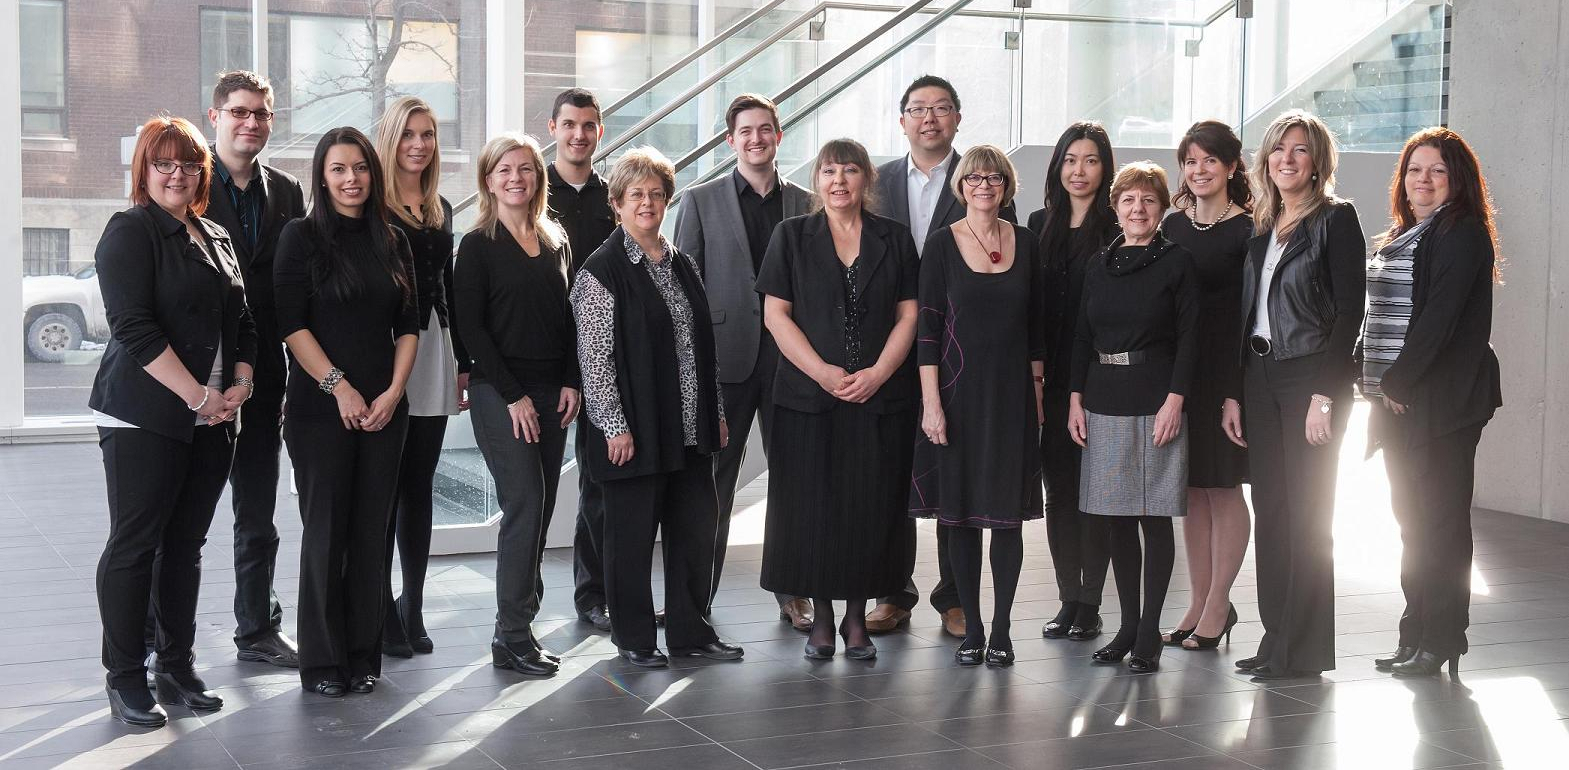
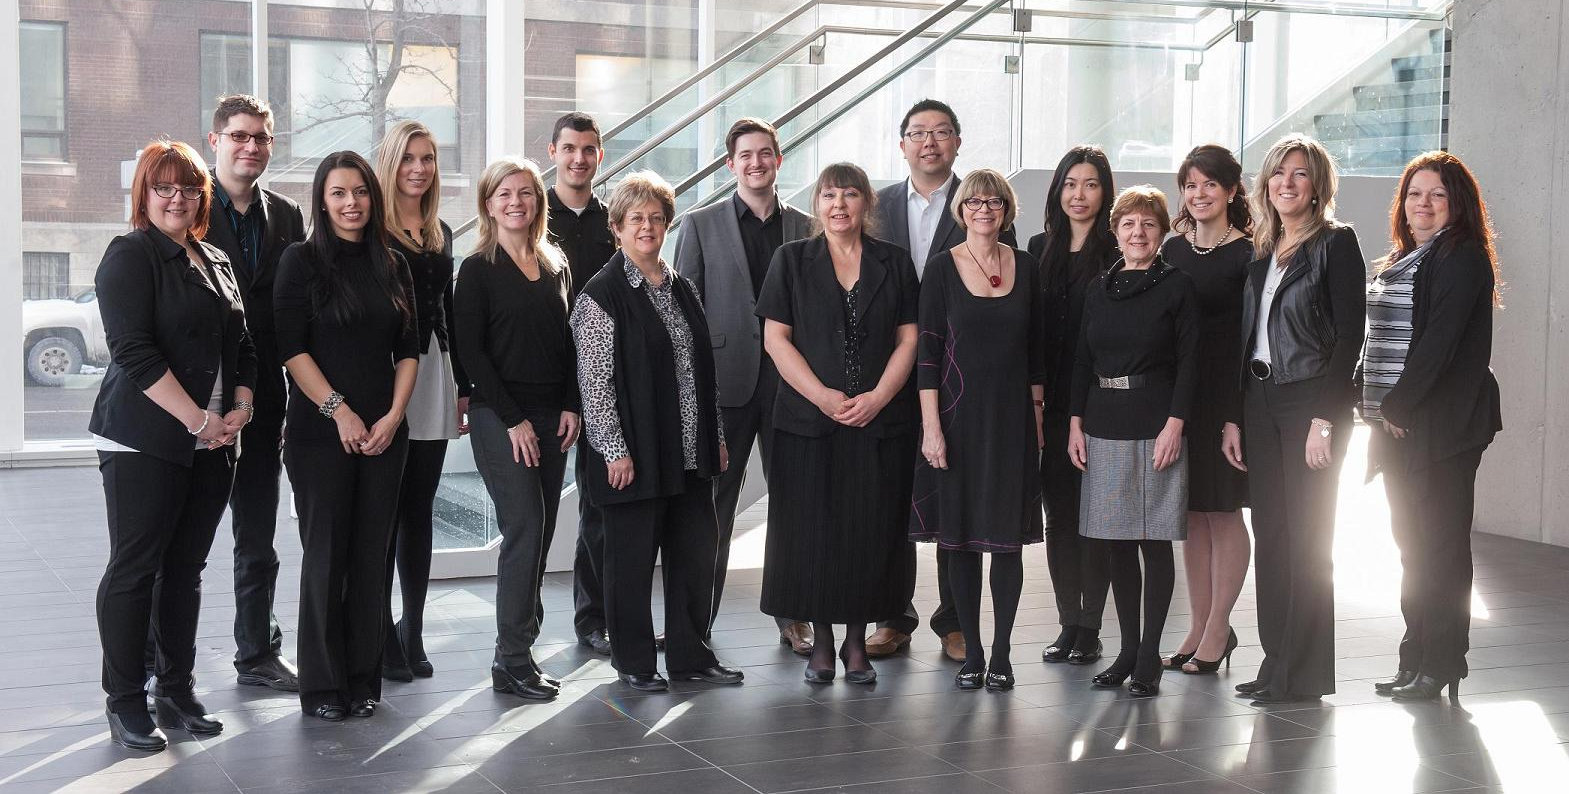
Nouvelle images avec un taille egal. Modification pour reglere le carrousel de cours

diff --git a/theme/edusmart30/css/chumstyle.css b/theme/edusmart30/css/chumstyle.css
@@ -39,7 +39,7 @@
 }
 
 .flex-caption h2:before {
-    background: transparent; 
+    background: transparent !important; 
 }
 
 #myslidertext2 a {
@@ -1193,6 +1193,43 @@ h2 {
         background-image: url("../pix/images/bouton_caroussel_next.png") !important;
     }
 
+    .flex-caption.container-fluid .caption_title_line a {
+        color: #0C4072 !important;
+        font-family: 'Raleway', sans-serif !important;
+        /*text-shadow: #000 0px 0px 3px !important;*/
+    }
+
+    .flex-caption.container-fluid .caption_title_line a:hover {
+        color: #0C4072 !important;
+        font-family: 'Raleway', sans-serif !important;
+        /*text-shadow: #000 0px 0px 3px !important;*/
+        text-decoration: underline !important;
+    }
+
+    .flex-caption.container-fluid .caption_title_line a:focus {
+        color: #0C4072 !important;
+        font-family: 'Raleway', sans-serif !important;
+       /* text-shadow: #000 0px 0px 3px !important;*/
+        text-decoration: underline !important;
+    }
+
+    @media only screen and (max-width: 979px) and (min-width: 320px) {
+        .caption_title_line a {
+             text-shadow: none !important;
+        }
+    }
+
+    /* alvéoles responsive */
+    @media only screen and (max-width: 1200px) and (min-width: 769px) {
+        #b-bottom #info-main #info-main1 .img-section, #b-bottom #info-main #info-main2 .img-section, #b-bottom #info-main #info-main3 .img-section {
+            float: none;
+            margin: auto;    
+        }
+        #b-bottom #info-main #info-main1 .text-section, #b-bottom #info-main #info-main2 .text-section, #b-bottom #info-main #info-main3 .text-section {            
+            text-align: center;
+        }
+    }
+
 
     /* bouton colors - colores */
 
@@ -1269,7 +1306,7 @@ h2 {
     /* menu user boule */
     .dir-ltr .usermenu {
         position: absolute;
-        right: 34px;
+        right: 4px;
         top: auto !important;
     }
 }
@@ -1363,6 +1400,7 @@ h2 {
     border-radius: 0;
     border-top: none;
     box-shadow: 0px 3px 13px #d0d0d0;
+    min-height: 340px;
 }
 
 #frontpage-course-list .frontpage-course-list-all .coursebox:hover, #frontpage-course-list .frontpage-course-list-enrolled .coursebox:hover {
@@ -1752,8 +1790,24 @@ h2 {
 
 
 
+/* texte de la liste de cours*/
+.content .fullsum, #page-site-index.OnecourseItem #frontpage-course-list .frontpage-course-list-enrolled .coursebox .content .fullsum {
+   /*max-width: 541px;*/
+   max-width: 367px;
+}
 
 
+.cusMenu a.btn.btn-navbar{
+    display: none !important;
+}
+
+
+/* cacher le nom d'utilisateur dans le menu d'action */
+@media only screen and (max-width: 560px) and (min-width: 0px) {
+    .usermenu .moodle-actionmenu .toggle-display .userbutton .usertext {
+        display: none;
+    }
+}
 
 /* edicion */
 

diff --git a/theme/edusmart30/layout/includes/pagescript.php b/theme/edusmart30/layout/includes/pagescript.php
@@ -81,8 +81,8 @@ $(document).ready(function(){
 		}
 
 		
-		$(window).load(function() {
-				$('.owl-carousel').owlCarousel({
+		 $(window).load(function() {
+				$('#block_wrapper.owl-carousel').owlCarousel({
 			    loop:true,
 			    margin:10,
 			    responsiveClass:true,
@@ -111,6 +111,60 @@ $(document).ready(function(){
 			});
 			
 		 });
+
+		
+
+		 $(window).load(function() {
+				$('.frontpage-course-list-all.owl-carousel').owlCarousel({
+
+				autoWidth:true,
+			    loop:true,
+			    margin:10,
+
+			    responsiveClass:true,
+			    responsive:{
+			        0:{
+			            items:1,
+			            nav:true,
+			            loop:true,
+			            autoplayHoverPause: false
+			        },
+			        600:{
+			            items:2,
+			            nav:true,
+			            loop:true,
+			            autoplayHoverPause: false
+			        },
+			        1000:{
+			            items:3,
+			            nav:true,
+			            loop:true,
+			            autoplay:false,
+			            autoplayHoverPause: false
+			        }
+			
+			    }
+			});
+			
+		 });
+
+		
+    	/*itemElement:'.views-row',
+		        items : 3,
+		        itemsMobile : [768,1],
+		        itemsDesktop : [1500,3],
+		        rewindNav:false,
+		        navigationText: false,*/
+
+		
+		$(window).resize(function() {
+		  
+			/*location.reload();*/
+
+		});
+
+		
+
 
 
 		$('.usermenu .moodle-actionmenu .toggle-display .userbutton').addClass('tooltips');

diff --git a/theme/edusmart30/layout/includes/loginfo.php b/theme/edusmart30/layout/includes/loginfo.php
@@ -60,7 +60,7 @@ if (!empty($CFG->loginpasswordautocomplete)) {
                   	<p class="fieldset">
             			<!-- <input type="checkbox" id="remember-me" checked> -->
             			<!-- <label for="remember-me">Se souvenir du nom de l'utilisateur</label> -->
-                        <span class="chum-lien-connexion-popup">Problème avec vos accès. <a href="/login/index.php">Click ici.</a></span>
+                        <span class="chum-lien-connexion-popup">Problème avec vos accès. <a href="/login/index.php">cliquez ici</a></span>
             		</p>           
                     <div class="clearfix"></div>
           
